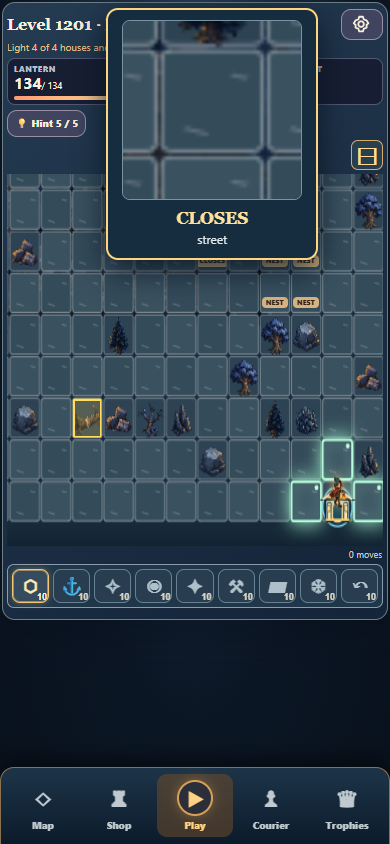
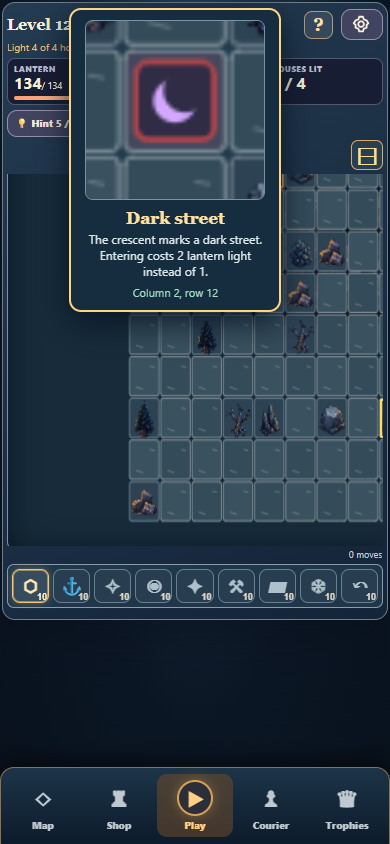
Restore map legend and explain held tile symbols

Changed region(s): [[0.0, 0.0, 0.9846, 0.6469]]

diff --git a/game/shell.js b/game/shell.js
@@ -113,6 +113,14 @@
   const restorePowerShop=()=>{if(powerShop.parentElement!==powerShopHome)powerShopHome.append(powerShop)};
   const close = () => { restorePowerShop();overlay.hidden = true; overlay.innerHTML = '';document.body.classList.remove('modalOpen'); };
   const panel = (title, body) => { restorePowerShop();overlay.hidden = false;document.body.classList.add('modalOpen');overlay.innerHTML = `<section class="integratedPanel" role="dialog" aria-modal="true" aria-label="${title}"><div class="head"><h2>${title}</h2><button class="close" type="button" aria-label="Close">×</button></div>${body}</section>`; };
+  const legendButton=document.createElement('button');
+  legendButton.id='boardLegendButton';legendButton.type='button';legendButton.textContent='?';legendButton.setAttribute('aria-label','Map symbols and rules');legendButton.title='Map symbols';
+  document.getElementById('gameSettings').before(legendButton);
+  legendButton.addEventListener('click',()=>{
+    const entries=[...document.querySelectorAll('#mapLegend .mapLegendRow')].map(row=>({key:row.dataset.legendHelp,title:row.querySelector('b')?.textContent||'',detail:row.dataset.legendHelp==='repair'?'Open this tile with a repair charge or gems for this level.':row.querySelector('small')?.textContent||'',icon:row.querySelector('canvas')}));
+    panel('Map symbols',`<div class="legendGuide"><div class="legendGuideRow"><span class="legendSwatch safe" aria-hidden="true"></span><div><strong>Green border</strong><small>Safe next move</small></div></div><div class="legendGuideRow"><span class="legendSwatch danger" aria-hidden="true"></span><div><strong>Red border</strong><small>Unsafe next move</small></div></div><div class="legendGuideRow"><span class="legendSwatch blocked" aria-hidden="true">♠</span><div><strong>Rock or tree</strong><small>Blocked tile</small></div></div>${entries.map(item=>`<div class="legendGuideRow" data-symbol="${item.key}"><canvas width="80" height="70" aria-hidden="true"></canvas><div><strong>${item.title}</strong><small>${item.detail}</small></div></div>`).join('')}</div>`);
+    for(const item of entries){const canvas=overlay.querySelector(`[data-symbol="${item.key}"] canvas`);if(item.icon&&canvas)canvas.getContext('2d').drawImage(item.icon,0,0)}
+  });
   document.getElementById('zoomMap').title='Zoom map';
   const repairCallout=document.createElement('section');
   repairCallout.id='repairCallout';
@@ -135,7 +143,7 @@
   const board=document.getElementById('board');
   const tilePreview=document.createElement('div');
   tilePreview.id='tilePreview';tilePreview.hidden=true;
-  tilePreview.innerHTML='<canvas width="180" height="180" aria-hidden="true"></canvas><strong></strong><span></span>';
+  tilePreview.innerHTML='<canvas width="180" height="180" aria-hidden="true"></canvas><strong></strong><span></span><small></small>';
   document.body.append(tilePreview);
   let tileHoldTimer=0,tileHideTimer=0,tileHoldStart=null,tileHoldShown=false,suppressTileClick=false;
   const hideTilePreview=()=>{tilePreview.hidden=true;clearTimeout(tileHideTimer)};
@@ -146,12 +154,25 @@
     ctx.drawImage(source,left,top,size,size,0,0,art.width,art.height);
     const raw=cell.getAttribute('aria-label')||'Map tile',parts=raw.split(': '),label=parts.length>1?parts.slice(1).join(': '):raw;
     const badge=[...cell.querySelectorAll('.timer,.done')].map(el=>el.textContent.trim()).filter(Boolean).join(' · ');
-    tilePreview.querySelector('strong').textContent=badge||label;
-    tilePreview.querySelector('span').textContent=badge?label:`Column ${Number(cell.dataset.x)+1}, row ${Number(cell.dataset.y)+1}`;
-    const width=212,height=253;
+    const kind=cell.classList;
+    const info=kind.contains('dark')?['Dark street','The crescent marks a dark street. Entering costs 2 lantern light instead of 1.']:
+      kind.contains('repairable')?['Repairable tile','Open this marked tile with a repair charge or the shown gem cost.']:
+      kind.contains('fade')?['Fading crossing','This crossing closes five moves after you first use it.']:
+      kind.contains('ice')?['Thin ice','This crossing breaks four moves after you first use it.']:
+      kind.contains('switch')?['Timed switch','Step here to open the timed gate for four moves.']:
+      kind.contains('gate')?['Timed gate','Pass through while its switch timer is active.']:
+      kind.contains('wall')?['Blocked tile','Rocks and trees cannot be crossed.']:
+      badge.includes('SHADOW')||badge.includes('NEST')?['Shadow nest','This marked area can fill with shadow after a delivery.']:
+      badge.includes('CLOSE')?['Changing road','This road changes after a delivery. Check whether it is open before crossing.']:
+      ['Map tile',label];
+    tilePreview.querySelector('strong').textContent=info[0];
+    tilePreview.querySelector('span').textContent=info[1];
+    tilePreview.querySelector('small').textContent=(badge?badge+' · ':'')+(kind.contains('safe')?'Green border: safe next move.':kind.contains('danger')?'Red border: unsafe next move.':`Column ${Number(cell.dataset.x)+1}, row ${Number(cell.dataset.y)+1}`);
+    const width=212;
+    tilePreview.hidden=false;
+    const height=tilePreview.offsetHeight;
     tilePreview.style.left=Math.max(8,Math.min(innerWidth-width-8,tile.left+tile.width/2-width/2))+'px';
     tilePreview.style.top=Math.max(8,Math.min(innerHeight-height-8,tile.top-height-12))+'px';
-    tilePreview.hidden=false;
   };
   board.addEventListener('pointerdown',e=>{
     const cell=e.target.closest('.cell');if(!cell||e.button!==0)return;

diff --git a/game/shell.css b/game/shell.css
@@ -61,7 +61,7 @@ body{background:radial-gradient(ellipse at 50% -8%,#29415a,#0b1624 62%,#08111c)}
 #integratedNav button.active{color:#ffd185;background:#6b492a91}
 #integratedNav button span{display:grid;place-items:center;width:36px;height:36px;font-size:22px;line-height:1}
 #integratedNav button[data-destination="play"] span{width:36px;height:36px;padding-left:2px;border:2px solid #d7a057;border-radius:50%;background:#2c2f3a;box-shadow:0 0 12px #d9a45b66;font-size:19px}
-#integratedOverlay{position:fixed;z-index:90;inset:0;max-width:430px;margin:auto;background:#07111edc;display:grid;place-items:center;padding:18px}
+#integratedOverlay{position:fixed;z-index:150;inset:0;max-width:430px;margin:auto;background:#07111edc;display:grid;place-items:center;padding:18px}
 #integratedOverlay[hidden]{display:none}
 .integratedPanel{width:min(100%,480px);max-height:min(90vh,780px);overflow:auto;border:1px solid #bb925d;border-radius:17px;background:linear-gradient(#263e54,#102238);padding:18px;box-shadow:0 20px 60px #000a;color:#f6e8d0}
 .integratedPanel h2{font:700 25px Georgia,serif;margin:0 0 5px;color:#ffe2ac}
@@ -189,6 +189,16 @@ body{background:radial-gradient(ellipse at 50% -8%,#29415a,#0b1624 62%,#08111c)}
 .mapStage .mapViewport::-webkit-scrollbar{display:none}
 .mapStage{display:block}
 #boardLegendButton{width:33px;min-height:32px;margin-left:auto;border:1px solid #b39975;border-radius:8px;background:#35485d;color:#ffe1a7;font:900 19px Georgia,serif}
+#boardLegendButton{flex:none;margin-left:auto}
+.legendGuide{display:grid;gap:4px;margin-top:7px}
+.legendGuideRow{display:flex;align-items:center;gap:9px;min-height:41px;padding:3px 6px;border:1px solid #63788b;border-radius:8px;background:#1a3245}
+.legendGuideRow canvas{width:38px;height:33px;object-fit:contain;flex:none}
+.legendGuideRow div{display:grid;gap:2px;min-width:0}
+.legendGuideRow strong{font:700 13px Georgia,serif;color:#ffe0a0}
+.legendGuideRow small{font:11px/1.3 system-ui,sans-serif;color:#dbe5e7}
+.legendSwatch{display:grid;place-items:center;width:34px;height:34px;flex:none;border-radius:6px;background:#314b5e;color:#cddce3;font-size:22px}
+.legendSwatch.safe{box-shadow:inset 0 0 0 3px #92f8c9}
+.legendSwatch.danger{box-shadow:inset 0 0 0 3px #ff9ca7}
 .legendPanel{max-height:min(78dvh,660px);overflow:auto}
 .legendPanel .symbolList{display:grid;gap:4px;margin-top:8px}
 .legendPanel .symbolRow{display:flex;align-items:center;gap:10px;border-bottom:1px solid #71809555;padding:5px 0}
@@ -424,6 +434,7 @@ body[data-screen="levels"] #resourceStrip,body[data-screen="courier"] #resourceS
 #tilePreview canvas{display:block;width:180px;height:180px;margin:0 auto 8px;border:1px solid #7794a3;border-radius:8px;background:#223b4d;image-rendering:auto}
 #tilePreview strong{display:block;font:700 17px/1.2 Georgia,serif;color:#ffe09d;overflow-wrap:anywhere}
 #tilePreview span{display:block;margin-top:4px;font:12px/1.3 system-ui,sans-serif;color:#e0e9eb;overflow-wrap:anywhere}
+#tilePreview small{display:block;margin-top:7px;font:11px/1.3 system-ui,sans-serif;color:#a9dfc4;overflow-wrap:anywhere}
 #repairPopover .repairChoices:has(.freeRepair){grid-template-columns:1fr}
 #repairPopover .freeRepair{background:#5b714d;color:#fff8d6}
 body[data-screen="play"] #playScreen .boardZoom{justify-content:flex-end;margin:2px 0 4px;min-height:30px}
